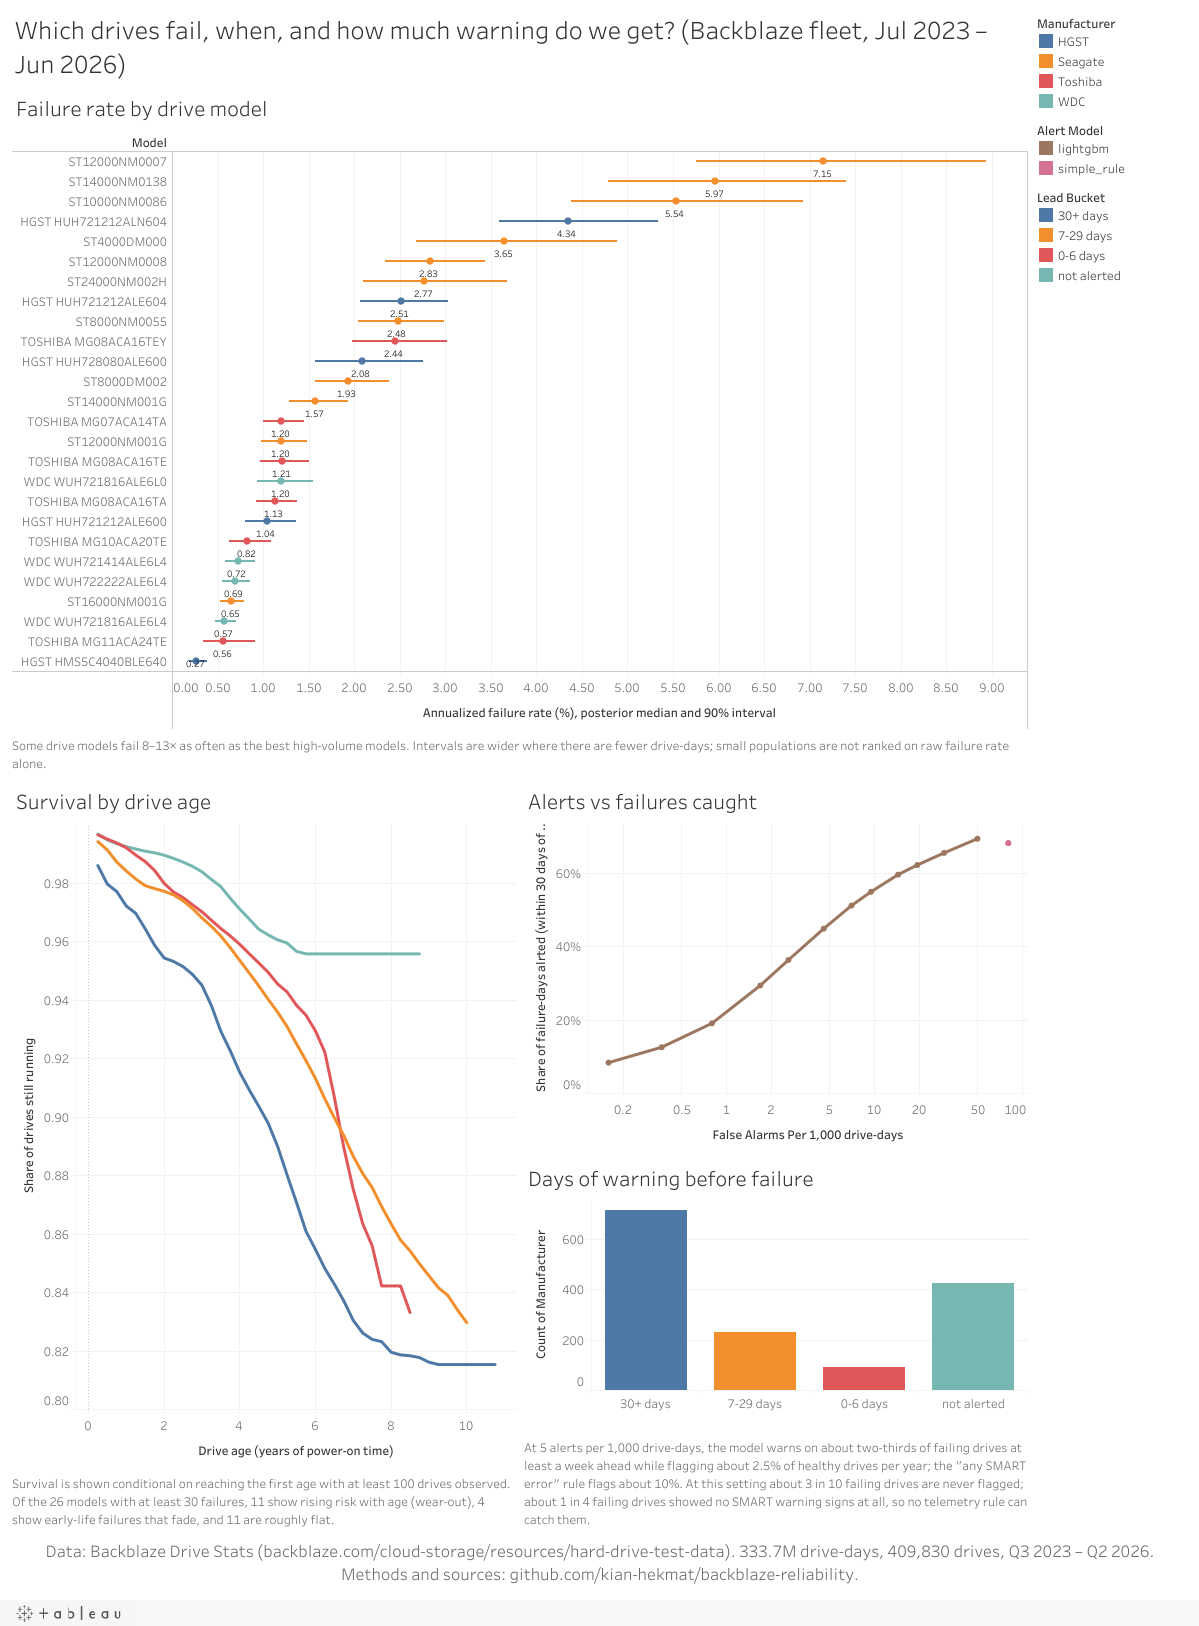
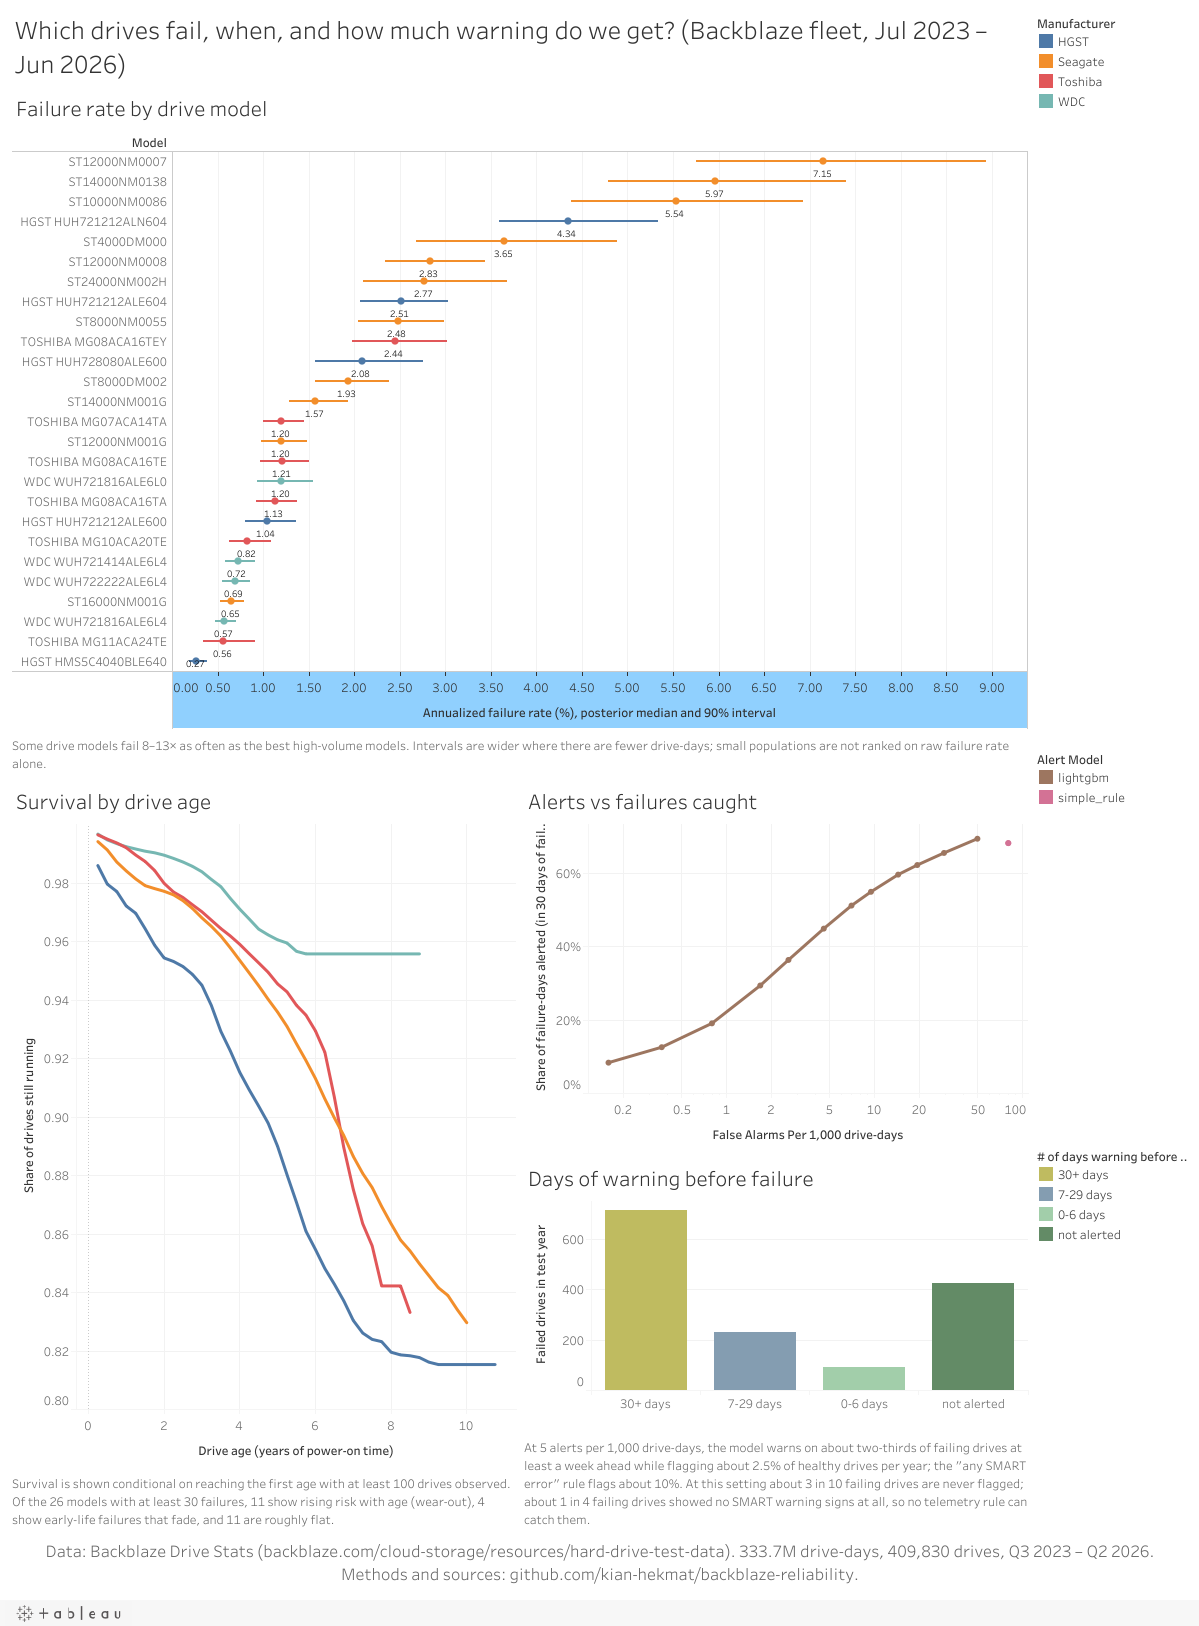
Refresh dashboard image; repo sweep: drop unused matplotlib, lifelines to dev deps, fix stale docstrings, note bundle status

diff --git a/scripts/phase4_failure_rates.py b/scripts/phase4_failure_rates.py
@@ -5,9 +5,12 @@ Outputs under results/phase4/:
   afr_baseline_window.csv / afr_baseline_quarter.csv    raw AFR (Backblaze formula)
   km_by_model.csv / km_by_manufacturer.csv              Kaplan-Meier by age, delayed entry + right-censoring
   weibull_by_model.csv                                  hazard shape (decreasing / constant / increasing)
-  bayes_estimates.csv, bayes_age_effect.csv, bayes_diagnostics.json
+  overdispersion_train_quarters.csv                     quarterly dispersion index per large model (training years)
+  bayes_estimates.csv, bayes_diagnostics.json           main model: manufacturer pooling + quarter drift, no shared age curve
   bayes_vs_raw_disagreement.csv                         where pooling changes the answer most
-  out_of_time_predictions.csv, out_of_time_summary.json fit on first 8 quarters, predict the last 4
+  out_of_time_predictions_<variant>.csv, out_of_time_summary.json   fit first 8 quarters, predict last 4 (3 variants)
+  age_curve_cross_sectional_<variant>.csv               shared age curve of the two age-aware variants (diagnostic)
+  sensitivity_mg08aca16tey.json                         MG08ACA16TEY Q3 2025 cosmetic-failure sensitivity
 Usage: uv run python scripts/phase4_failure_rates.py [--quick]
 """
 

diff --git a/scripts/check_age_vs_published.py b/scripts/check_age_vs_published.py
@@ -1,6 +1,7 @@
-"""Compare mean drive age per model (corrected SMART 9 at each drive's last observation in the quarter)
+"""Independent check from the RAW files (no pipeline involved): compare mean drive age per model (corrected SMART 9 at each drive's last observation in the quarter)
 with Backblaze's published average age. Writes results/validation/age_check_<quarter>.csv.
 
+Counterpart: scripts/check_age_vs_published_db.py runs the same check on the pipeline's silver table for any quarter.
 Usage: uv run python scripts/check_age_vs_published.py data/work/Q2_2026_raw.parquet Q2_2026
 """
 import sys

diff --git a/scripts/check_age_vs_published_db.py b/scripts/check_age_vs_published_db.py
@@ -1,4 +1,4 @@
-"""Age check from Databricks silver: mean corrected SMART 9 age at each drive's last day in a quarter vs Backblaze's
+"""Age check on the PIPELINE's silver table (any quarter; counterpart of check_age_vs_published.py, which reads raw files): mean corrected SMART 9 age at each drive's last day in a quarter vs Backblaze's
 published average age. Writes results/validation/age_check_<quarter>.csv.
 Usage: uv run python scripts/check_age_vs_published_db.py Q1_2026
 """

diff --git a/README.md b/README.md
@@ -124,6 +124,9 @@ uv run python scripts/spotcheck_queries.py                 # every query checked
 uv run python scripts/dbsql.py -f databricks/sql/40_tableau_extracts.sql -o tableau
 ```
 
+The 12-quarter backfill ran through `scripts/run_full_scope.sh`. For future quarters, `databricks.yml` defines the same
+chain as a Databricks job (validated with `databricks bundle validate`; not yet deployed).
+
 ## Repository
 
 ```
